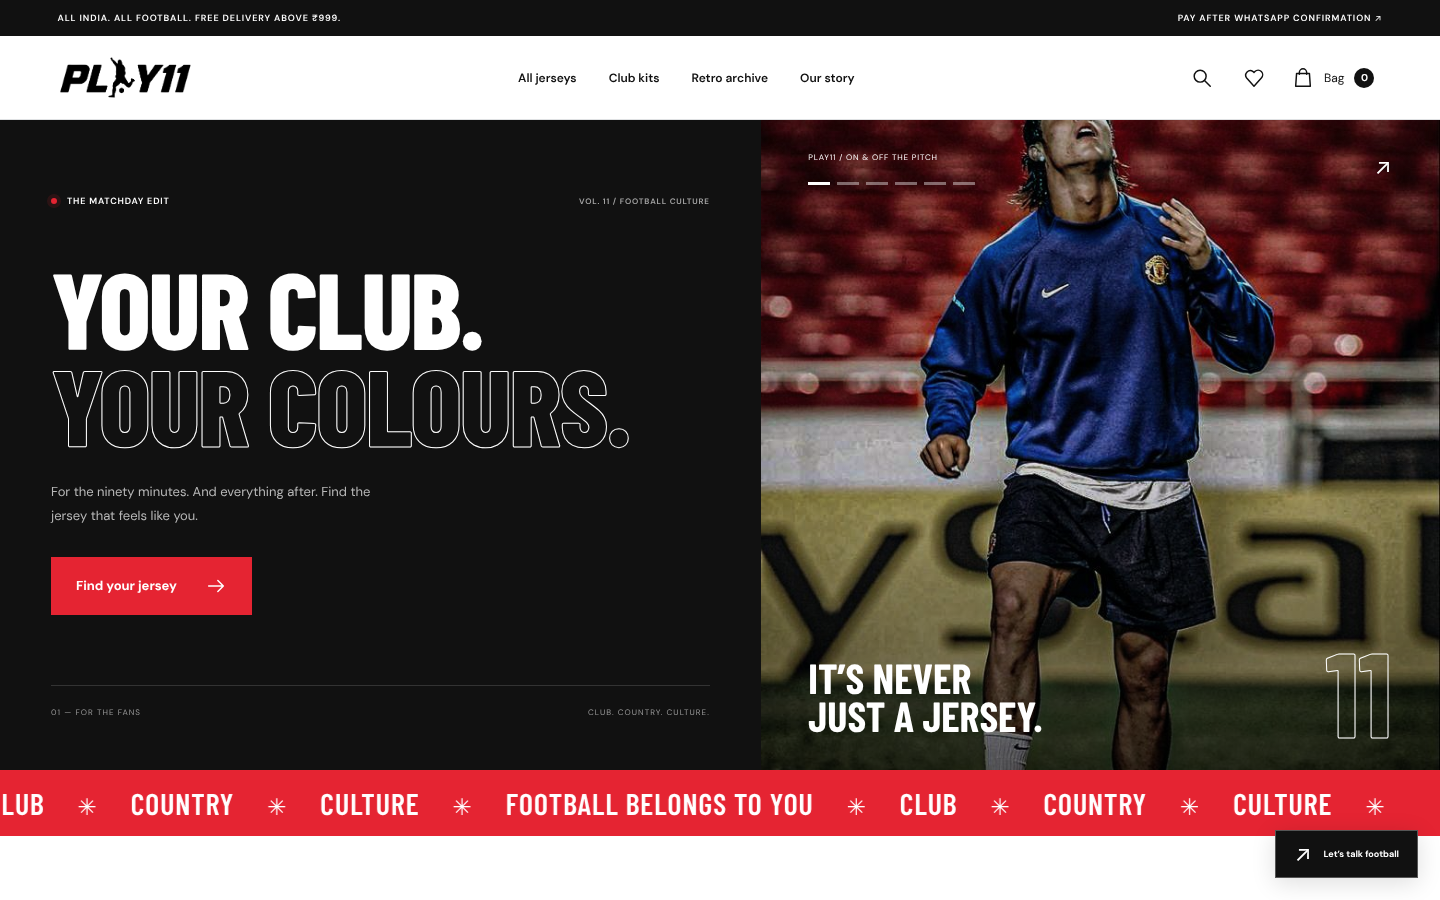
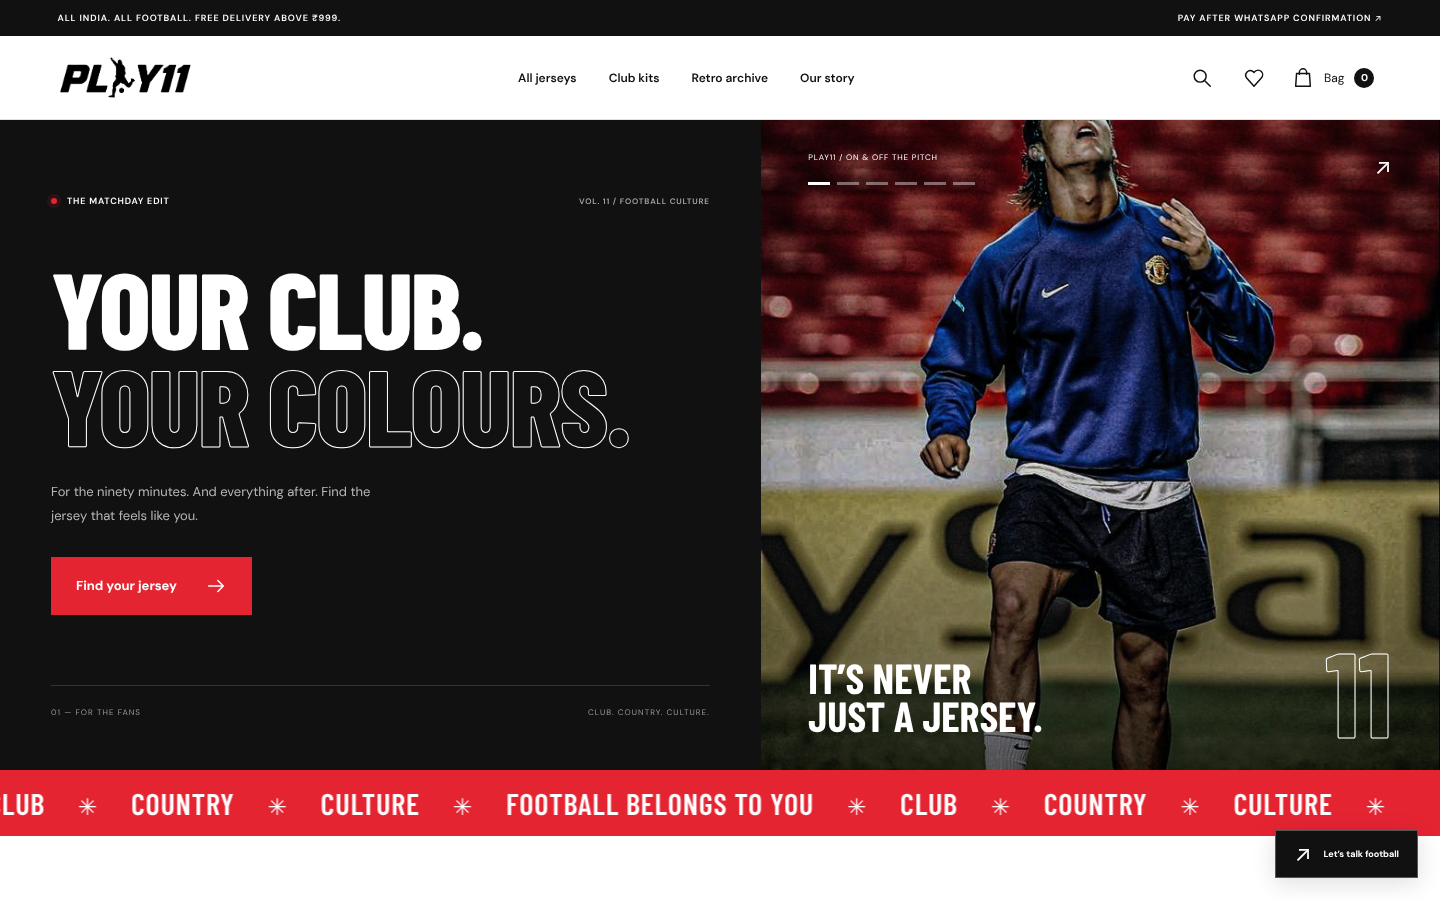
Hide Store admin link, 2×2 collection grid, remove team-tile section (#8)
* Add home page screenshot

Claude-Session: https://claude.ai/code/session_01B2wqnGxrE4ZnkUXKktvXLc

* Use supplied football photos in collection tiles

Claude-Session: https://claude.ai/code/session_01B2wqnGxrE4ZnkUXKktvXLc

* Mobile collection tiles: staggered bento mosaic

Claude-Session: https://claude.ai/code/session_01B2wqnGxrE4ZnkUXKktvXLc

* Mobile collection tiles: swipeable portrait card rail

Claude-Session: https://claude.ai/code/session_01B2wqnGxrE4ZnkUXKktvXLc

* Maldini photo in manifesto; new action photo for Rare Drops tile

Claude-Session: https://claude.ai/code/session_01B2wqnGxrE4ZnkUXKktvXLc

* Show manifesto photo in full colour

Claude-Session: https://claude.ai/code/session_01B2wqnGxrE4ZnkUXKktvXLc

* Mobile: scroll-pinned collection rail (vertical scroll drives cards sideways, then releases)

Claude-Session: https://claude.ai/code/session_01B2wqnGxrE4ZnkUXKktvXLc

* Story page: split admin text into labelled sections, readable typography

Claude-Session: https://claude.ai/code/session_01B2wqnGxrE4ZnkUXKktvXLc

* Add cleaned Inter Milan third kit (Forlan 9) front and back images

Claude-Session: https://claude.ai/code/session_01B2wqnGxrE4ZnkUXKktvXLc

* Add Inter Milan Third (Forlan #9) to prepared jersey collection at 349

Claude-Session: https://claude.ai/code/session_01B2wqnGxrE4ZnkUXKktvXLc

* Home: auto-sliding hero photos and shop-by-category tiles

Claude-Session: https://claude.ai/code/session_01B2wqnGxrE4ZnkUXKktvXLc
[…]

diff --git a/src/new/Storefront.jsx b/src/new/Storefront.jsx
@@ -10,6 +10,7 @@ import { useCart } from "../context/CartContext.jsx";
 import { useWishlist } from "../context/WishlistContext.jsx";
 import { useAuth } from "../context/AuthContext.jsx";
 import Logo from "../components/Logo.jsx";
+import { CLUB_LOGOS } from "./clubLogos.js";
 import {
   useStore,
   Icon,
@@ -110,6 +111,7 @@ export function Navbar() {
 }
 export function Footer() {
   const { settings: s } = useStore();
+  const { isAdmin } = useAuth();
   return (
     <footer className="footer">
       <div className="footer-top">
@@ -153,7 +155,7 @@ export function Footer() {
           >
             Instagram ↗
           </a>
-          <Link to="/admin">Store admin</Link>
+          {isAdmin && <Link to="/admin">Store admin</Link>}
         </div>
       </div>
       <div className="footer-word" aria-hidden="true">
@@ -224,51 +226,6 @@ function CatalogueError() {
   ) : null;
 }
 
-/* Mobile only: vertical page scroll drives the collection cards sideways, then releases. */
-function usePinnedRail(sectionRef, pinRef, railRef) {
-  useEffect(() => {
-    const section = sectionRef.current, pin = pinRef.current, rail = railRef.current;
-    if (!section || !pin || !rail) return;
-    const mq = window.matchMedia("(max-width: 620px)");
-    const motion = window.matchMedia("(prefers-reduced-motion: reduce)");
-    let dist = 0, active = false;
-    const reset = () => {
-      active = false;
-      section.style.height = "";
-      section.classList.remove("is-pinned");
-      rail.style.transform = "";
-    };
-    const measure = () => {
-      if (!mq.matches || motion.matches) return reset();
-      const last = rail.lastElementChild;
-      rail.style.transform = "";
-      dist = Math.max(0, last.offsetLeft + last.offsetWidth + 16 - pin.clientWidth);
-      if (!dist) return reset();
-      active = true;
-      section.classList.add("is-pinned");
-      section.style.height = pin.offsetHeight + dist + "px";
-      update();
-    };
-    const update = () => {
-      if (!active) return;
-      const p = Math.min(1, Math.max(0, -section.getBoundingClientRect().top / dist));
-      rail.style.transform = "translate3d(" + -p * dist + "px,0,0)";
-    };
-    measure();
-    window.addEventListener("scroll", update, { passive: true });
-    window.addEventListener("resize", measure);
-    window.addEventListener("load", measure);
-    mq.addEventListener("change", measure);
-    return () => {
-      window.removeEventListener("scroll", update);
-      window.removeEventListener("resize", measure);
-      window.removeEventListener("load", measure);
-      mq.removeEventListener("change", measure);
-      reset();
-    };
-  }, [sectionRef, pinRef, railRef]);
-}
-
 const HERO_EXTRA_SLIDES = [
   "/collections/club-milan-kaka.webp",
   "/collections/national-england.webp",
@@ -286,57 +243,65 @@ function useAutoSlide(count, ms = 5000) {
   }, [count, ms, index]);
   return [index, setIndex];
 }
-function tileImage(p) {
-  /* Category tiles show the jersey itself (front view), never the model shot. */
-  const list = [p.image, ...(Array.isArray(p.images) ? p.images : [])].filter(Boolean);
+
+
+const plain = (t) =>
+  String(t || "")
+    .normalize("NFD")
+    .replace(/[\u0300-\u036f]/g, "")
+    .toLowerCase();
+function ClubLogoRow({ products }) {
+  if (!CLUB_LOGOS.length) return null;
+  /* A logo links to the shop only when the catalogue really has jerseys for that club. */
+  const clubLink = (c) => {
+    const hit = products.find(
+      (p) => !p.isMock && c.match.some((w) => plain(p.club).includes(w)),
+    );
+    return hit ? "/shop?club=" + encodeURIComponent(hit.club) : null;
+  };
   return (
-    list.find((u) => /front/i.test(u)) ||
-    list.find((u) => !/model|back/i.test(u)) ||
-    ""
+    <section className="section club-logos-section" aria-label="Clubs">
+      <div className="club-logos-row">
+        {CLUB_LOGOS.map((c) => {
+          const inner = (
+            <>
+              <span className="club-logo-badge">
+                <img
+                  src={"/club-logos/" + c.logo}
+                  alt=""
+                  loading="lazy"
+                  onError={(e) => {
+                    e.currentTarget.style.display = "none";
+                    e.currentTarget.parentElement.dataset.fallback = c.name.slice(0, 3).toUpperCase();
+                  }}
+                />
+              </span>
+              <span className="club-logo-name">{c.name}</span>
+            </>
+          );
+          const to = clubLink(c);
+          return to ? (
+            <Link key={c.name} className="club-logo" to={to}>
+              {inner}
+            </Link>
+          ) : (
+            <div key={c.name} className="club-logo">
+              {inner}
+            </div>
+          );
+        })}
+      </div>
+    </section>
   );
 }
-/* Category tiles are built from the live catalogue, so they follow whatever the admin publishes. */
-function buildCategoryTiles(products) {
-  const live = products.filter((p) => !p.isMock && tileImage(p));
-  /* Prefer photos hosted on this site: they always load, unlike some external links. */
-  const used = new Set();
-  const best = (list) => {
-    const local = list.filter((p) => tileImage(p).startsWith("/"));
-    const pick =
-      local.find((p) => !used.has(tileImage(p))) || local[0] || list[0];
-    if (pick) used.add(tileImage(pick));
-    return pick;
-  };
-  const tiles = [];
-  [["Club", "Club kits"], ["National", "National teams"]].forEach(([type, label]) => {
-    const first = best(live.filter((p) => p.type === type));
-    if (first) tiles.push({ label, image: tileImage(first), to: "/shop?collection=" + type });
-  });
-  const byClub = new Map();
-  live.forEach((p) => {
-    if (!p.club) return;
-    byClub.set(p.club, [...(byClub.get(p.club) || []), p]);
-  });
-  [...byClub.entries()]
-    .sort((a, b) => b[1].length - a[1].length)
-    .slice(0, 6)
-    .forEach(([club, list]) =>
-      tiles.push({ label: club, image: tileImage(best(list)), to: "/shop?club=" + encodeURIComponent(club) }),
-    );
-  return tiles;
-}
+
 export function Home() {
   const { products, settings: s, loading, isSampleCatalogue } = useStore(),
     latest = [...products]
       .sort((a, b) => (b.createdAt?.seconds || 0) - (a.createdAt?.seconds || 0))
       .slice(0, 10),
-    collSection = useRef(null),
-    collPin = useRef(null),
-    collRail = useRef(null),
     heroSlides = [...new Set([s.heroImage, ...HERO_EXTRA_SLIDES].filter(Boolean))],
-    [heroIndex, setHeroIndex] = useAutoSlide(heroSlides.length),
-    categoryTiles = buildCategoryTiles(products);
-  usePinnedRail(collSection, collPin, collRail);
+    [heroIndex, setHeroIndex] = useAutoSlide(heroSlides.length);
   return (
     <>
       <section className="hero">
@@ -412,27 +377,7 @@ export function Home() {
           <span>✳</span> CULTURE <span>✳</span>
         </div>
       </div>
-      {categoryTiles.length >= 4 && (
-        <section className="section category-section">
-          <div className="section-heading">
-            <div>
-              <span className="eyebrow">BROWSE / SHOP BY CATEGORY</span>
-              <h2>Pick your side.</h2>
-            </div>
-            <Link className="text-link" to="/shop">
-              All jerseys <Icon name="arrow" />
-            </Link>
-          </div>
-          <div className="category-grid">
-            {categoryTiles.slice(0, categoryTiles.length - (categoryTiles.length % 2)).map((t) => (
-              <Link key={t.label} className="category-tile" to={t.to}>
-                <img src={t.image} alt="" loading="lazy" />
-                <span>{t.label}</span>
-              </Link>
-            ))}
-          </div>
-        </section>
-      )}
+      <ClubLogoRow products={products} />
       <section className="section arrivals-section">
         <div className="section-heading">
           <div>
@@ -468,16 +413,15 @@ export function Home() {
           </Link>
         )}
       </section>
-      <section ref={collSection} className="collection-section collection-editorial collection-recut">
-        <div ref={collPin} className="collection-pin">
-        <div className="collection-heading">
+      <section className="collection-section collection-editorial collection-recut">
+                <div className="collection-heading">
           <div>
             <span className="eyebrow">03 / FOUR SIDES OF FOOTBALL</span>
             <h2>Find your <em>football identity.</em></h2>
           </div>
           <p>Old-school soul. New-season energy.<br />Choose the shirt that feels like you.</p>
         </div>
-        <div ref={collRail} className="collection-grid collection-player-grid collection-recut-grid">
+        <div className="collection-grid collection-player-grid collection-recut-grid">
           {[
             { key: "Club", number: "01", title: "YOUR CLUB.\nYOUR PEOPLE.", label: "CLUB CULTURE", note: "The badge you grew up with.", tone: "club", image: "/collections/club-milan-kaka.webp", credit: "" },
             { key: "National", number: "02", title: "COLOURS\nOF A NATION.", label: "INTERNATIONAL", note: "Every flag. One feeling.", tone: "national", image: "/collections/national-england.webp", credit: "" },
@@ -493,7 +437,6 @@ export function Home() {
             </article>
           ))}
         </div>
-      </div>
       </section>
       <section className="manifesto">
         <div className="manifesto-photo">

diff --git a/src/styles/index.css b/src/styles/index.css
@@ -3021,30 +3021,25 @@ details p {
 .collection-recut .collection-recut-retro .collection-player-photo { object-position:50% 25%; }
 .collection-recut .collection-recut-limited .collection-player-photo { object-position:50% 45%; }
 
-/* Mobile: scroll-driven portrait card rail (page scroll moves cards sideways, then releases) */
+/* Mobile: collection cards as a plain 2-column grid (no sliding) */
 @media(max-width:620px) {
-  .collection-recut.is-pinned { padding:0 !important; overflow:visible !important; }
-  .collection-recut.is-pinned:before { display:none; }
-  .collection-recut.is-pinned .collection-pin {
-    position:sticky; top:0; height:100vh; height:100svh; overflow:hidden;
-    display:flex; flex-direction:column; justify-content:center; gap:22px;
-    padding:76px 16px 20px; box-sizing:border-box;
-  }
-  .collection-recut.is-pinned .collection-heading { margin:0; }
   .collection-recut .collection-recut-grid {
-    display:flex; flex-wrap:nowrap; grid-template-columns:none; grid-template-rows:none; grid-template-areas:none;
-    gap:12px; align-items:stretch; width:max-content; will-change:transform;
+    display:grid; grid-template-columns:repeat(2,minmax(0,1fr)); grid-template-rows:none; grid-template-areas:none;
+    gap:10px; width:auto; align-items:stretch;
   }
   .collection-recut .collection-recut-card,
   .collection-recut .collection-recut-club,
   .collection-recut .collection-recut-limited {
-    flex:0 0 auto; width:auto; min-height:0; aspect-ratio:3 / 4.6;
-    height:clamp(330px, calc(100svh - 330px), 480px);
+    grid-area:auto; grid-column:auto; width:auto; height:auto; min-height:0; aspect-ratio:3 / 4.4;
   }
-  .collection-recut .collection-recut-copy { left:18px; right:16px; bottom:20px; }
-  .collection-recut .collection-recut-copy h3 { font-size:clamp(1.7rem,8vw,2.2rem); }
+  .collection-recut .collection-recut-top { top:12px; left:12px; right:10px; font-size:8px; }
+  .collection-recut .collection-recut-mark { display:none; }
+  .collection-recut .collection-recut-copy { left:12px; right:10px; bottom:14px; }
+  .collection-recut .collection-recut-copy h3 { font-size:1.3rem; margin-bottom:8px; }
+  .collection-recut .collection-player-overline,
+  .collection-recut .collection-recut-copy p { display:none; }
+  .collection-recut .collection-cta { font-size:7.5px; }
   .collection-recut .collection-recut-limited .collection-recut-copy { display:block; }
-  .collection-recut .collection-recut-limited .collection-cta { display:inline-flex; }
 }
 
 /* Story page: clean, readable long-form text whatever the admin enters */
@@ -3126,3 +3121,24 @@ details p {
   .hero-dots { top:auto; bottom:12px; left:6%; }
   .hero-image-top { top:16px; }
 }
+
+/* Club logo row: swipe sideways, 3 at a time on phones */
+.club-logos-section { padding-top:24px; padding-bottom:8px; }
+.club-logos-row {
+  display:flex; gap:14px; overflow-x:auto; scroll-snap-type:x mandatory; -webkit-overflow-scrolling:touch;
+  scrollbar-width:none; overscroll-behavior-x:contain; padding-bottom:6px;
+}
+.club-logos-row::-webkit-scrollbar { display:none; }
+.club-logo {
+  flex:0 0 calc((100% - 28px) / 3); scroll-snap-align:start; display:flex; flex-direction:column; align-items:center; gap:10px;
+  color:inherit; text-decoration:none; min-width:0;
+}
+.club-logo-badge {
+  width:100%; max-width:130px; aspect-ratio:1 / 1; border-radius:50%; background:#f1f1ef; display:grid; place-items:center;
+  padding:11%; box-sizing:border-box; transition:transform .3s ease;
+}
+.club-logo-badge img { width:100%; height:100%; object-fit:contain; display:block; }
+.club-logo-badge[data-fallback]:after { content:attr(data-fallback); font-family:var(--display); font-weight:800; font-size:22px; letter-spacing:.04em; }
+a.club-logo:hover .club-logo-badge { transform:scale(1.06); }
+.club-logo-name { font-size:11px; font-weight:700; letter-spacing:.06em; text-transform:uppercase; text-align:center; line-height:1.2; }
+@media(min-width:901px) { .club-logo { flex-basis:calc((100% - 70px) / 6); } }

diff --git a/src/new/clubLogos.js b/src/new/clubLogos.js
@@ -1,0 +1,28 @@
+/* Club logo row on the home page (swipeable, 3 at a time on phones).
+   - name:  shown under the logo
+   - logo:  file inside /public/club-logos/
+   - match: lower-case words; the logo links to the shop for that club only when a product in the
+            catalogue has a club name containing one of these words (so there are no empty pages).
+   Only use logos you have the right to use. */
+export const CLUB_LOGOS = [
+  { name: "Real Madrid", logo: "real-madrid.webp", match: ["real madrid"] },
+  { name: "Barcelona", logo: "barcelona.webp", match: ["barcelona", "barca"] },
+  { name: "Atlético Madrid", logo: "atletico-madrid.webp", match: ["atletico"] },
+  { name: "Sevilla", logo: "sevilla.webp", match: ["sevilla"] },
+  { name: "Valencia", logo: "valencia.webp", match: ["valencia"] },
+  { name: "Villarreal", logo: "villarreal.webp", match: ["villarreal"] },
+  { name: "Real Betis", logo: "real-betis.webp", match: ["betis"] },
+  { name: "Athletic Club", logo: "athletic-club.webp", match: ["athletic"] },
+  { name: "Real Sociedad", logo: "real-sociedad.webp", match: ["sociedad"] },
+  { name: "Celta Vigo", logo: "celta-vigo.webp", match: ["celta"] },
+  { name: "Getafe", logo: "getafe.webp", match: ["getafe"] },
+  { name: "Osasuna", logo: "osasuna.webp", match: ["osasuna"] },
+  { name: "Rayo Vallecano", logo: "rayo-vallecano.webp", match: ["rayo"] },
+  { name: "Espanyol", logo: "espanyol.webp", match: ["espanyol"] },
+  { name: "Levante", logo: "levante.webp", match: ["levante"] },
+  { name: "Elche", logo: "elche.webp", match: ["elche"] },
+  { name: "Alavés", logo: "alaves.webp", match: ["alaves"] },
+  { name: "Málaga", logo: "malaga.webp", match: ["malaga"] },
+  { name: "Deportivo", logo: "deportivo.webp", match: ["deportivo", "coruna"] },
+  { name: "Racing Santander", logo: "racing-santander.webp", match: ["racing"] },
+];
